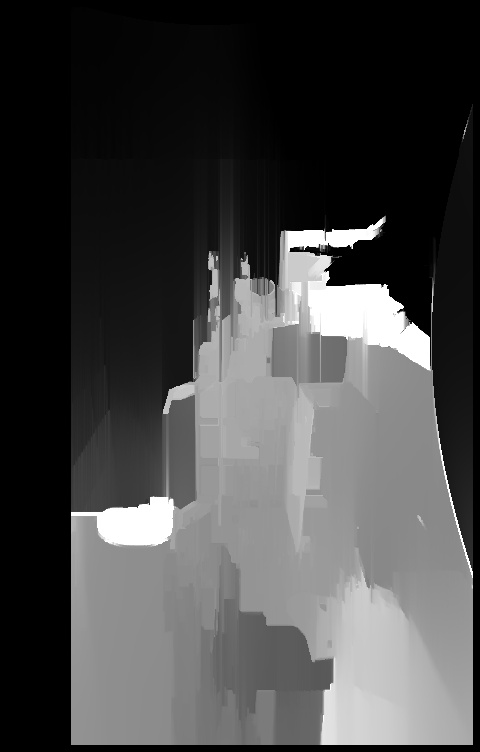
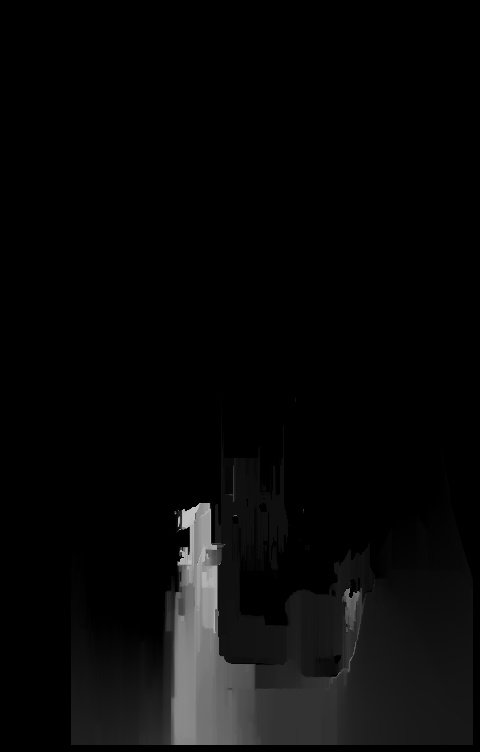
rearranged stuff, left ~disp looks blurry and right looks weird and sparse

diff --git a/indigosdk-2.0.15/src/omnis5u3mt9v022.cc b/indigosdk-2.0.15/src/omnis5u3mt9v022.cc
@@ -474,73 +474,70 @@ static DeferredImage computeDisparityImage2(std::shared_ptr<void> stereo_handle,
         // left_for_matcher = imread("matcher_img/left_for_matcher2.jpg", IMREAD_UNCHANGED);
         // right_for_matcher = imread("matcher_img/right_for_matcher2.jpg", IMREAD_UNCHANGED);
 
-        auto max_disp = 64;
-        auto wsize = 15;
-        printf("wsize: %d\n", wsize);
-        
-        // StereoBM
-        Ptr<StereoBM> left_matcher = StereoBM::create(max_disp,wsize);
-        wls_filter = createDisparityWLSFilter(left_matcher);
-        Ptr<StereoMatcher> right_matcher = createRightMatcher(left_matcher);
-
-        // StereoSGBM
-        // Ptr<StereoSGBM> left_matcher = StereoSGBM::create(0,max_disp,wsize);
-        // left_matcher->setUniquenessRatio(60);
-        // // left_matcher->setTextureThreshold(10);
-        // // left_matcher->setDisp12MaxDiff(1000000);
-        // // left_matcher->setSpeckleWindowSize(400);
-        // left_matcher->setP1(24*wsize*wsize);
-        // left_matcher->setP2(96*wsize*wsize);
-        // left_matcher->setPreFilterCap(63);
-        // left_matcher->setMode(StereoSGBM::MODE_SGBM_3WAY);
-        // wls_filter = createDisparityWLSFilter(left_matcher);
-        // Ptr<StereoMatcher> right_matcher = createRightMatcher(left_matcher);
-        // matching_time = (double)getTickCount();
-        // left_matcher-> compute(left_for_matcher, right_for_matcher,left_disp);
-        // right_matcher->compute(right_for_matcher,left_for_matcher, right_disp);
-        // matching_time = ((double)getTickCount() - matching_time)/getTickFrequency();
-
         printf("#################################################\n");
-        printf("bm_sad_window_size: %d\n", bm_sad_window_size);
-        left_matcher->setPreFilterSize(bm_prefilter_size);
-        printf("bm_prefilter_size: %d\n", bm_prefilter_size);
-        left_matcher->setPreFilterCap(bm_prefilter_cap);
-        printf("bm_prefilter_cap: %d\n", bm_prefilter_cap);
-        left_matcher->setBlockSize(bm_sad_window_size);
-        printf("bm_sad_window_size: %d\n", bm_sad_window_size);
-        left_matcher->setMinDisparity(bm_min_disparity);
-        printf("bm_min_disparity: %d\n", bm_min_disparity);
-        left_matcher->setNumDisparities(bm_num_disparities);
-        printf("bm_num_disparities: %d\n", bm_num_disparities);
-        left_matcher->setTextureThreshold(bm_texture_threshold);
-        printf("bm_texture_threshold: %d\n", bm_texture_threshold);
-        left_matcher->setUniquenessRatio(bm_uniqueness_ratio);
-        printf("bm_uniqueness_ratio: %d\n", bm_uniqueness_ratio);
-        left_matcher->setSpeckleRange(bm_speckle_range);
-        printf("bm_speckle_range: %d\n", bm_speckle_range);
-        left_matcher->setSpeckleWindowSize(bm_speckle_window_size);
+        printf("bm_sad_window_size: %d\n", bm_sad_window_size);        
+        printf("bm_prefilter_size: %d\n", bm_prefilter_size);        
+        printf("bm_prefilter_cap: %d\n", bm_prefilter_cap);                
+        printf("bm_sad_window_size: %d\n", bm_sad_window_size);                
+        printf("bm_min_disparity: %d\n", bm_min_disparity);                
+        printf("bm_num_disparities: %d\n", bm_num_disparities);        
+        printf("bm_texture_threshold: %d\n", bm_texture_threshold);        
+        printf("bm_uniqueness_ratio: %d\n", bm_uniqueness_ratio);                
+        printf("bm_speckle_range: %d\n", bm_speckle_range);                
         printf("bm_speckle_window_size: %d\n", bm_speckle_window_size);
 
-        //! [filtering]
         printf("filter_lambda: %d\n", filter_lambda*1000);
-        wls_filter->setLambda(filter_lambda*1000);
         printf("filter_sigma: %.1f\n", (double)filter_sigma*.1);
-        wls_filter->setSigmaColor((double)filter_sigma*.1);
         printf("#################################################\n");
 
-            matching_time = (double)getTickCount();
-        left_matcher->compute(left_for_matcher, right_for_matcher,left_disp);
+        // StereoBM
+        Ptr<StereoBM> left_matcher = StereoBM::create(bm_num_disparities,bm_sad_window_size);
+
+        // StereoSGBM
+        // Ptr<StereoSGBM> left_matcher = StereoSGBM::create(0,bm_num_disparities,bm_sad_window_size);
+
+        Ptr<StereoMatcher> right_matcher = createRightMatcher(left_matcher);
+
+        left_matcher->setPreFilterSize(bm_prefilter_size);
+        left_matcher->setTextureThreshold(bm_texture_threshold);
+        
+        left_matcher->setPreFilterCap(bm_prefilter_cap);
+        left_matcher->setBlockSize(bm_sad_window_size);
+        left_matcher->setMinDisparity(bm_min_disparity);
+        left_matcher->setNumDisparities(bm_num_disparities);
+        left_matcher->setUniquenessRatio(bm_uniqueness_ratio);
+        left_matcher->setSpeckleRange(bm_speckle_range);
+        left_matcher->setSpeckleWindowSize(bm_speckle_window_size);
+
+        right_matcher->setBlockSize(bm_sad_window_size);
+        right_matcher->setMinDisparity(bm_min_disparity);
+        right_matcher->setNumDisparities(bm_num_disparities);
+        right_matcher->setSpeckleRange(bm_speckle_range);
+        right_matcher->setSpeckleWindowSize(bm_speckle_window_size);
+
+        // StereoSGBM
+        // left_matcher->setP1(24*bm_sad_window_size*bm_sad_window_size);
+        // left_matcher->setP2(96*bm_sad_window_size*bm_sad_window_size);
+        // left_matcher->setMode(StereoSGBM::MODE_SGBM_3WAY);
+
+        //! [matching]
+        matching_time = (double)getTickCount();
+        left_matcher->compute(left_for_matcher, right_for_matcher, left_disp);
         right_matcher->compute(right_for_matcher, left_for_matcher, right_disp);
         matching_time = ((double)getTickCount() - matching_time)/getTickFrequency();
+        // printf("matching_time: %.3f\n", matching_time);
+        //! [matching]
 
-        printf("matching_time: %.3f\n", matching_time);
-
+        //! [filtering]
+        wls_filter = createDisparityWLSFilter(left_matcher);
+        wls_filter->setLambda(filter_lambda*1000);
+        wls_filter->setSigmaColor((double)filter_sigma*.1);
         filtering_time = (double)getTickCount();
         wls_filter->filter(left_disp,left_for_matcher,filtered_disp,right_disp);
         filtering_time = ((double)getTickCount() - filtering_time)/getTickFrequency();
-        //! [filtering]
         conf_map = wls_filter->getConfidenceMap();
-        printf("filtering_time: %.3f\n", filtering_time);
+        // printf("filtering_time: %.3f\n", filtering_time);
+        //! [filtering]
 
         // OccamImage* disp = 0;
         // IOccamStereo* stereo_iface = 0;
